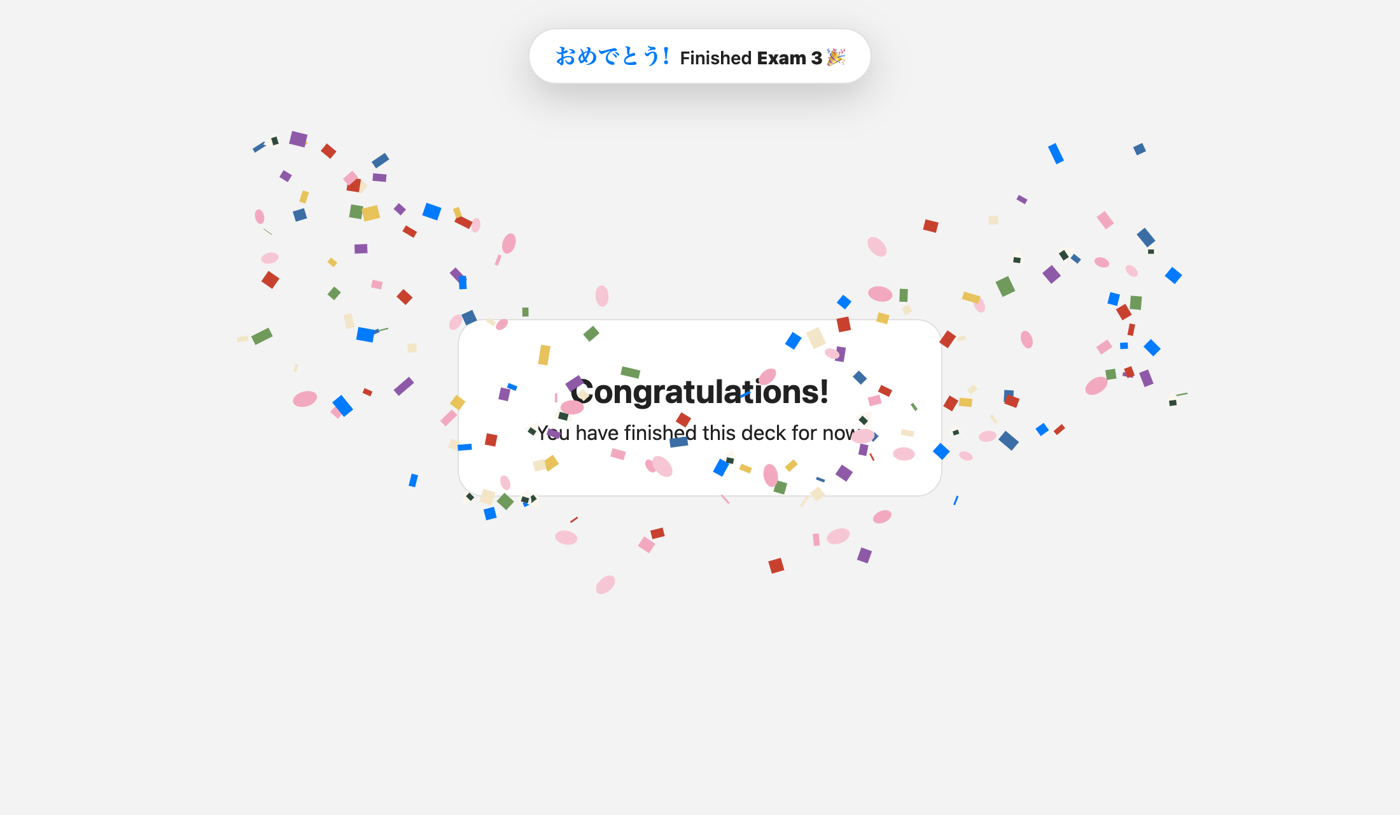
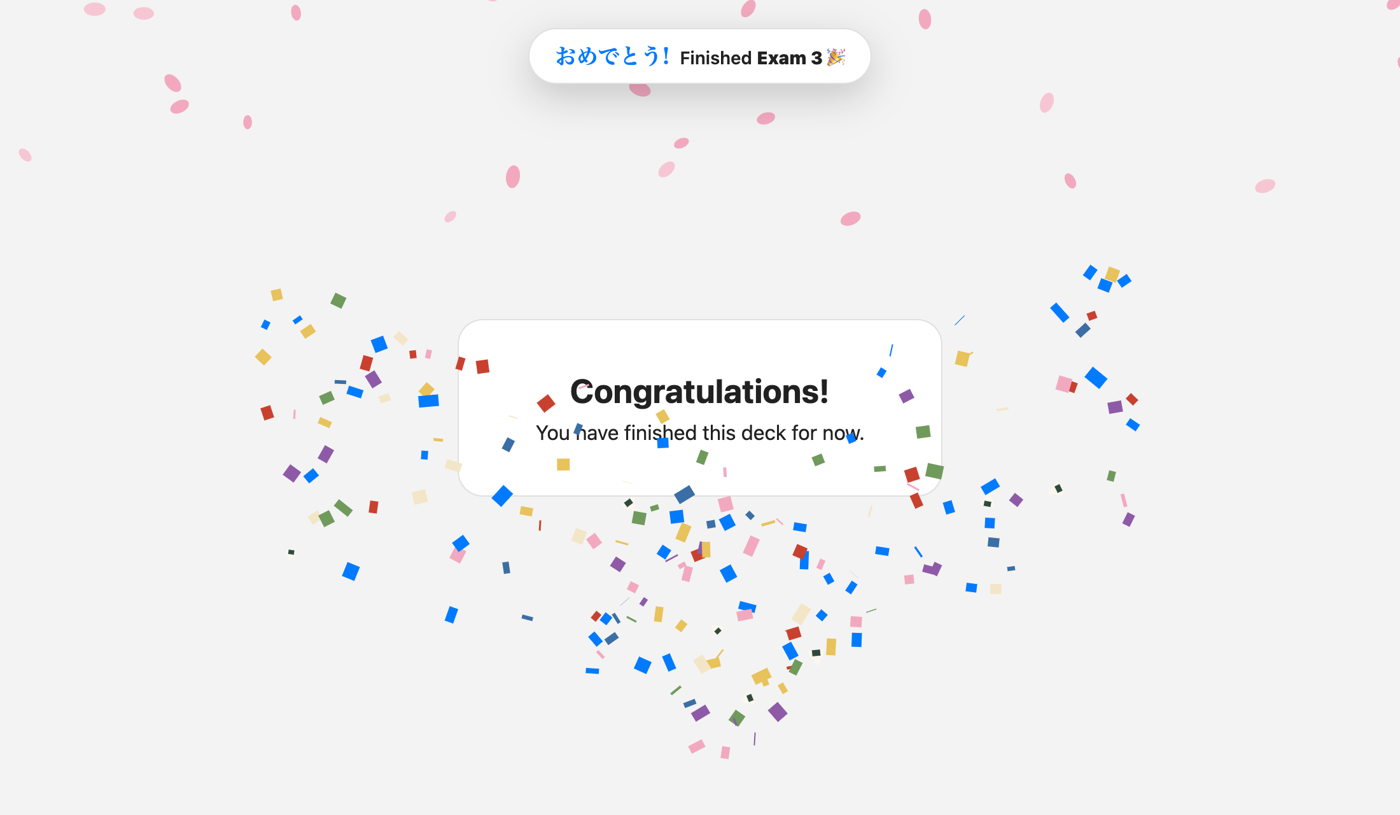
1.5.6: confetti falls fully off screen; petals from the top, paper from the sides
No fade-out or 7-second cutoff: the celebration ends once every piece has
left the screen (30 s safety limit). Side cannons shoot paper confetti (and
the odd tiny onigiri); sakura petals drift down from the top in three
waves, each petal with its own fall speed and sway.

diff --git a/onigiri_kitchen/web/celebrate.js b/onigiri_kitchen/web/celebrate.js
@@ -24,7 +24,7 @@
         if (started) elapsed = (Date.now() - started) / 1000;
         else sessionStorage.setItem(key, String(Date.now()));
       } catch (e) {}
-      if (elapsed > 6.5) return;
+      if (elapsed > 30) return;
     }
     const reduce = window.matchMedia && window.matchMedia('(prefers-reduced-motion: reduce)').matches;
     const old = document.getElementById('ok-celebrate');
@@ -102,7 +102,7 @@
           rot: rand(0, Math.PI * 2),
           vr: rand(-0.25, 0.25),
           wob: rand(0, Math.PI * 2),
-          kind: r < 0.18 ? 'petal' : r < 0.24 ? 'onigiri' : 'paper',
+          kind: r < 0.06 ? 'onigiri' : 'paper',
           c: pick(colors),
           w: rand(6, 11),
           h: rand(9, 16),
@@ -113,18 +113,23 @@
     // two cannons from the bottom corners, then a gentle shower from the top
     burst(W * 0.08, H + 10, 1, 90);
     burst(W * 0.92, H + 10, -1, 90);
-    function shower() {
-      for (let i = 0; i < 70; i++) {
+    // sakura petals only, drifting down from the top in gentle waves
+    function petalWave(n) {
+      for (let i = 0; i < n; i++) {
         parts.push({
-          x: rand(0, W), y: rand(-60, -10), vx: rand(-1, 1), vy: rand(1, 3),
-          rot: rand(0, 6.28), vr: rand(-0.15, 0.15), wob: rand(0, 6.28),
-          kind: Math.random() < 0.3 ? 'petal' : 'paper', c: pick(colors), w: rand(6, 10), h: rand(8, 14), life: 1,
+          // spread out vertically, each with its own gentle fall speed
+          x: rand(-20, W + 20), y: rand(-H * 0.5, -10), vx: rand(-0.8, 0.8), vy: rand(0.3, 1.2),
+          term: rand(0.9, 2.1), wobSpeed: rand(0.04, 0.1),
+          rot: rand(0, 6.28), vr: rand(-0.08, 0.08), wob: rand(0, 6.28),
+          kind: 'petal', c: '#f2a9c0', w: rand(6, 10), h: rand(8, 12), life: 1,
         });
       }
     }
     // (scheduled relative to when this celebration first started)
-    if (elapsed >= 0.45) shower();
-    else setTimeout(shower, 450 - elapsed * 1000);
+    [[0.45, 45], [1.2, 35], [2.0, 30]].forEach(([at, n]) => {
+      if (elapsed >= at) petalWave(n);
+      else setTimeout(() => petalWave(n), (at - elapsed) * 1000);
+    });
 
     function drawOnigiri(p) {
       const s = p.w * 1.2;
@@ -149,15 +154,16 @@
       for (const p of parts) {
         p.vy += 0.32 * dt;
         p.vx *= Math.pow(0.985, dt);
-        p.vy = Math.min(p.vy, p.kind === 'petal' ? 2.2 : 3.4);
-        p.wob += 0.08 * dt;
+        p.vy = Math.min(p.vy, p.term || (p.kind === 'petal' ? 2.2 : 3.4));
+        p.wob += (p.wobSpeed || 0.08) * dt;
         p.x += (p.vx + Math.sin(p.wob) * (p.kind === 'petal' ? 1.2 : 0.6)) * dt;
         p.y += p.vy * dt;
         p.rot += p.vr * dt;
-        if (t > 3.6) p.life -= 0.02 * dt;
       }
       render();
-      if (t >= 7 && !done) { done = true; window.removeEventListener('resize', size); root.remove(); }
+      // finished once every piece has fallen off the screen (safety limit 30s)
+      const onScreen = parts.some((p) => p.y < H + 40 && p.x > -60 && p.x < W + 60);
+      if (!done && ((t > 2.2 && !onScreen) || t > 30)) { done = true; window.removeEventListener('resize', size); root.remove(); }
     }
     function render() {
       ctx.clearRect(0, 0, W, H);
@@ -194,7 +200,7 @@
     }
     // continuing after a page redraw: catch the animation up to where it was
     if (elapsed > 0) {
-      for (let i = 0; i < Math.min(elapsed, 7) * 60; i++) step(last + 16.67);
+      for (let i = 0; i < Math.min(elapsed, 30) * 60; i++) step(last + 16.67);
       // re-align the clock with real time after catching up
       last = performance.now();
       start = last - elapsed * 1000;

diff --git a/dev/celebrate.html b/dev/celebrate.html
@@ -9,5 +9,7 @@ h1{margin:0 0 8px;font-size:26px}
 <body><div class="card"><h1>Congratulations!</h1><div>You have finished this deck for now.</div></div>
 <script>
 const t = parseFloat(new URLSearchParams(location.search).get('t') || '1.1');
-OKCelebrate({deck: 'Exam 3', accent: '#007aff', sound: false, preview: t});
+const el = parseFloat(new URLSearchParams(location.search).get('el') || '0');
+if (el) sessionStorage.setItem('okCelebrate:shot', String(Date.now() - el * 1000));
+OKCelebrate({deck: 'Exam 3', accent: '#007aff', sound: false, preview: t, id: el ? 'shot' : undefined});
 </script></body></html>

diff --git a/onigiri_kitchen/main.py b/onigiri_kitchen/main.py
@@ -22,7 +22,7 @@ from .state import CATALOG, KitchenState
 ADDON_DIR = os.path.dirname(__file__)
 PACKAGE = mw.addonManager.addonFromModule(__name__)
 CMD_PREFIX = "okitchen:"
-VERSION = "1.5.5"
+VERSION = "1.5.6"
 REPO_URL = "https://github.com/thussenthan/onigiri-kitchen"
 
 DEFAULT_CONF: Dict[str, Any] = {
